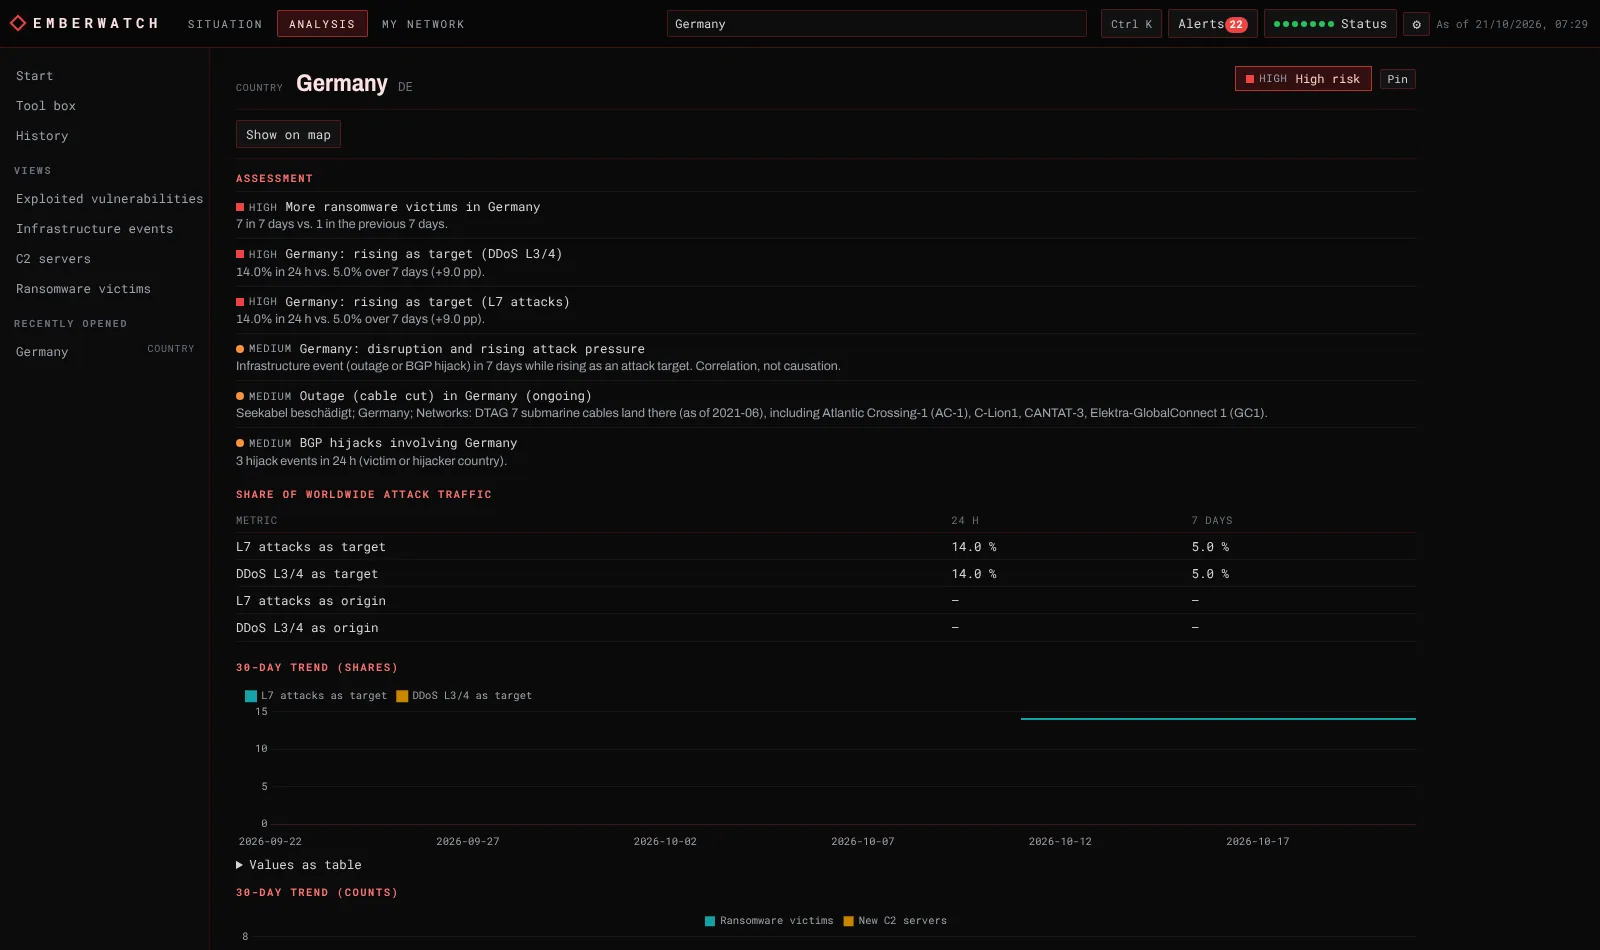
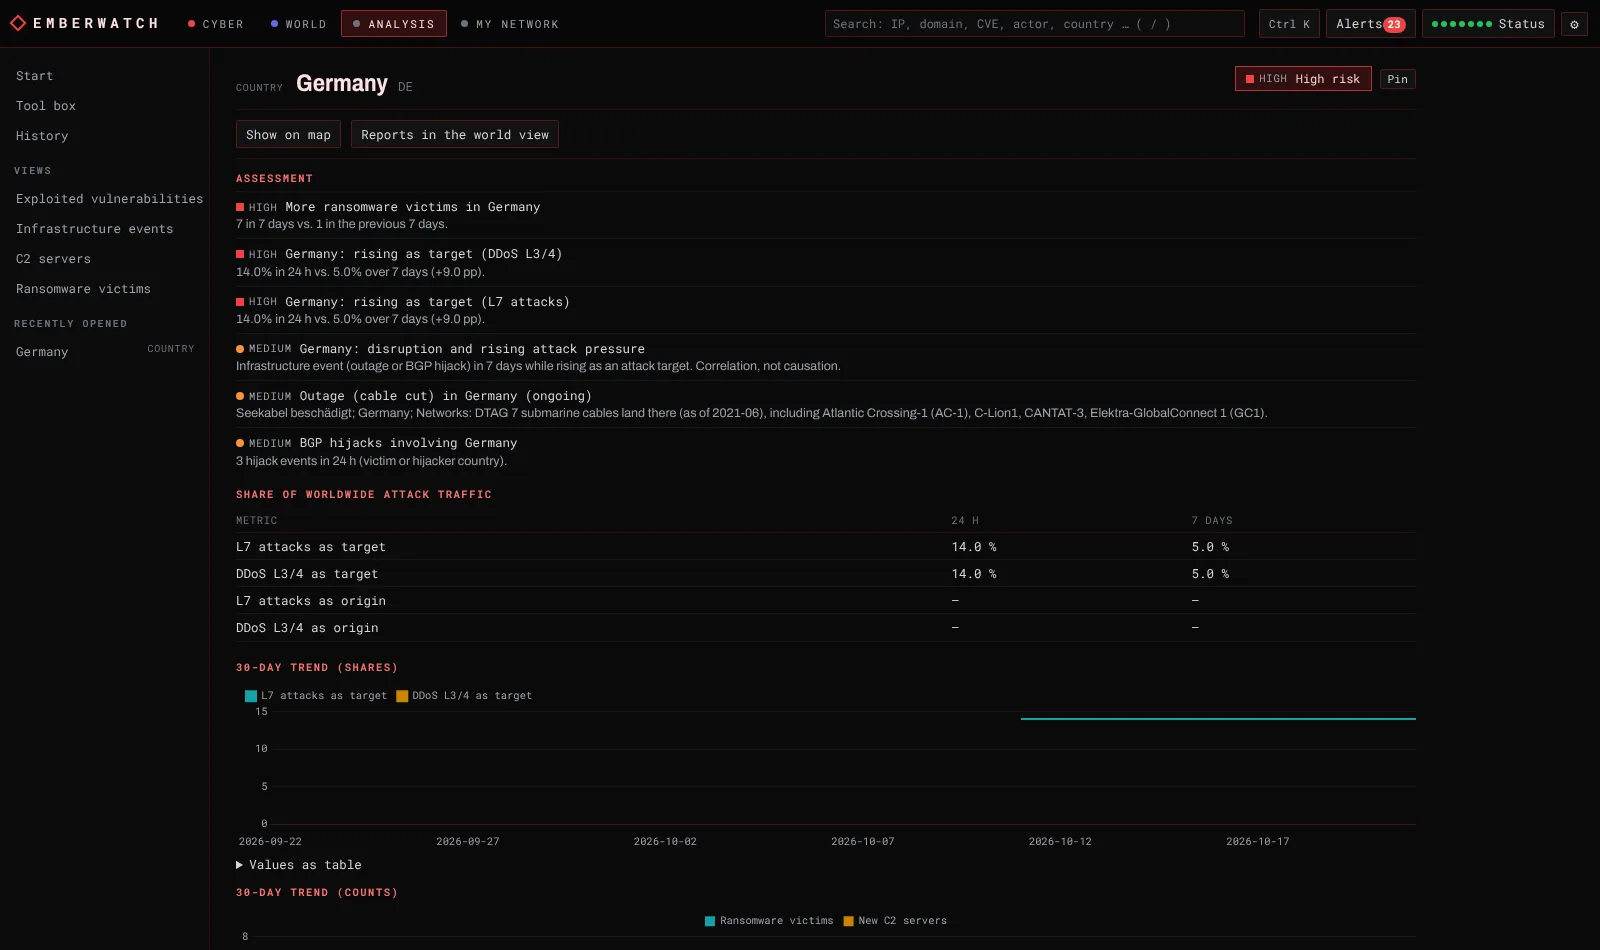
3.2.0: docs, changelog, screenshots; recognition and status details
- README (EN/DE): Weltlage, four areas, settings, security notes, sources, limits
- New screenshots (synthetic demo data), notices for MISP Galaxy and the feeds
- Known feed items are not recognised again on every fetch
- Partial feed failures: status text without duplicated source names

Claude-Session: https://claude.ai/code/session_01E7aK7U8mApYGQofGbz6dSh

diff --git a/backend/app/news.py b/backend/app/news.py
@@ -359,8 +359,9 @@ class News:
         ok = len(self.sources) - len(failed)
         total = self.db.query("SELECT COUNT(*) AS n FROM news")[0]["n"]
         self.db.meta_set("news_rev", utcnow())  # invalidates cached overviews (main.welt_overview)
-        self.db.status("news", ok > 0, ", ".join(failed)[:300] if failed else "", total,
-                       code="news_partial" if failed and ok else None, params={"failed": ", ".join(failed)} if failed and ok else None)
+        partial = bool(failed) and ok > 0
+        self.db.status("news", ok > 0, "" if partial else ", ".join(failed)[:300], total,
+                       code="news_partial" if partial else None, params={"failed": ", ".join(failed)[:300]} if partial else None)
         return new_total
 
     def _source_status(self, src: Source, ok: bool, message: str, new: int = 0) -> None:
@@ -463,6 +464,8 @@ class News:
             pub = now
         if pub < now - timedelta(days=KEEP_DAYS_ON_FETCH):
             return False
+        if self.db.query("SELECT 1 FROM news WHERE url = ?", (link,)):
+            return False  # known item: no need to recognise it again
         text = strip_html(raw.get("desc") or raw.get("content") or "")
         if text.lower().startswith(title.lower()):
             text = text[len(title):].lstrip(" .:-–")

diff --git a/backend/tests/test_welt.py b/backend/tests/test_welt.py
@@ -304,6 +304,7 @@ def test_collect_store_cluster_alerts_images(m):
     st = {r["source"]: r for r in m.db.statuses()}
     assert st["news"]["ok"] and st["news"]["code"] == "news_partial"
     assert "Krebs" in json.loads(st["news"]["params"])["failed"] and "CERT-X" in json.loads(st["news"]["params"])["failed"]
+    assert st["news"]["message"] == "" and m.i18n.render_status(st["news"], "de").startswith("nicht erreichbar: ")
     srcs = {s["id"]: s for s in m.news.source_list()}
     assert set(srcs) == {"bsi", "therecord", "bleepingcomputer", "krebs", "certx"}
     assert srcs["certx"]["ok"] is False and "redirect refused" in srcs["certx"]["message"]

diff --git a/backend/app/__init__.py b/backend/app/__init__.py
@@ -1,4 +1,4 @@
 """Emberwatch – self-hosted cyber threat intelligence map."""
 
-__version__ = "3.1.1"
+__version__ = "3.2.0"
 REPO_URL = "https://github.com/SaturdayNetLab/emberwatch"

diff --git a/CHANGELOG.md b/CHANGELOG.md
@@ -1,5 +1,30 @@
 # Changelog
 
+## 3.2.0 – unreleased
+
+The map has two views now: the **Cyberlage** (attack data, red) and the new **Weltlage** (security reports in their geopolitical context, indigo). The map view is tidier: one side panel, layer chips above the map, four key figures below it.
+
+### Added
+- Weltlage: reports of government CERTs and specialist media (NCSC UK, BSI, The Record, BleepingComputer, SecurityWeek, Krebs on Security, Golem.de; more via `NEWS_FEEDS`) with headline, teaser, preview image and a link to the original; reports on the same event are grouped
+- Automatic recognition from headline and teaser: countries and the named origin, threat actors (MISP Galaxy, loaded weekly), malware known from the C2 data, CVEs, kind of incident; attributions are labelled as statements of the sources
+- Weltlage map with country pairs and named countries; filters for corroborated events, law enforcement & sanctions, sources, focus country or home region, period; tabs for reports, actors, country pairs and a Gemini briefing with the status of every source
+- "Report in context": classification, the same event in other sources, KEV/EPSS of its CVEs, active C2 servers of its malware, Cloudflare data for the country pair, what concerns your products, CVEs and domains; Gemini assessment of a report with follow-up questions
+- Alerts for reports that name your domains (high) or watched products and their CVEs (medium)
+- Threat actor object pages (aliases, attributed country, sponsor, confidence, targets, references, reports); search and palette find actors and reports
+- "Today" in the Cyberlage: own alerts of the last 48 hours, detected patterns and widely reported events
+- Settings `NEWS_ENABLED`, `NEWS_INTERVAL_MIN`, `NEWS_IMAGES`, `NEWS_DISABLE`, `NEWS_FEEDS`, `NEWS_RETENTION_DAYS`
+
+### Changed
+- Four areas: Cyberlage, Weltlage, Analyse, Mein Netz (shortcuts `1`–`4`); the selected country and the period carry over between the two map views
+- One side panel with tabs (Today, Rankings, Patterns, Gemini) instead of two; `]` toggles it, `[` is gone
+- Layer switches as chips above the map; shading, timeline, map tool bar and globe in the same bar; timeline and tool bar open on demand
+- Four key figures below the map (your country as attack target, active C2, ransomware in your region, new KEV that concern you) with the map legend above them
+- Gemini system prompt: attributions in reports are statements of the sources; Cloudflare origins are still never attributed to states
+
+### Security
+- Feeds are parsed with defusedxml (no entity expansion, no external references), size-limited, with conditional requests; redirects must stay on HTTPS and public addresses
+- Preview images are only fetched from the source's own domain and public addresses; the browser loads them without a referrer; `NEWS_IMAGES=0` removes `https:` from the image policy
+
 ## 3.1.1 – 2026-10-21
 
 ### Fixed

diff --git a/THIRD_PARTY_NOTICES.md b/THIRD_PARTY_NOTICES.md
@@ -39,5 +39,7 @@ These data are not part of the repository; each installation fetches them direct
 - RIPE NCC RIS Live and RIPEstat – RIPE NCC terms
 - SSLMate Cert Spotter – SSLMate terms
 - DB-IP Lite (IP to City, IP to ASN) – CC BY 4.0, "IP Geolocation by DB-IP"
+- MISP Galaxy, cluster "threat-actor" (threat actors, aliases, attributions) – CC0 1.0 / BSD 2-Clause, https://github.com/MISP/misp-galaxy
+- Security reports of the world view (NCSC UK, BSI, The Record, BleepingComputer, SecurityWeek, Krebs on Security, Golem.de and feeds you add) – headlines, teasers and preview images as published in the feeds; the rights stay with the publishers, every report links to its original
 - Map tiles: OpenFreeMap, © OpenMapTiles, © OpenStreetMap contributors
 - Google Gemini (optional) – Google terms
